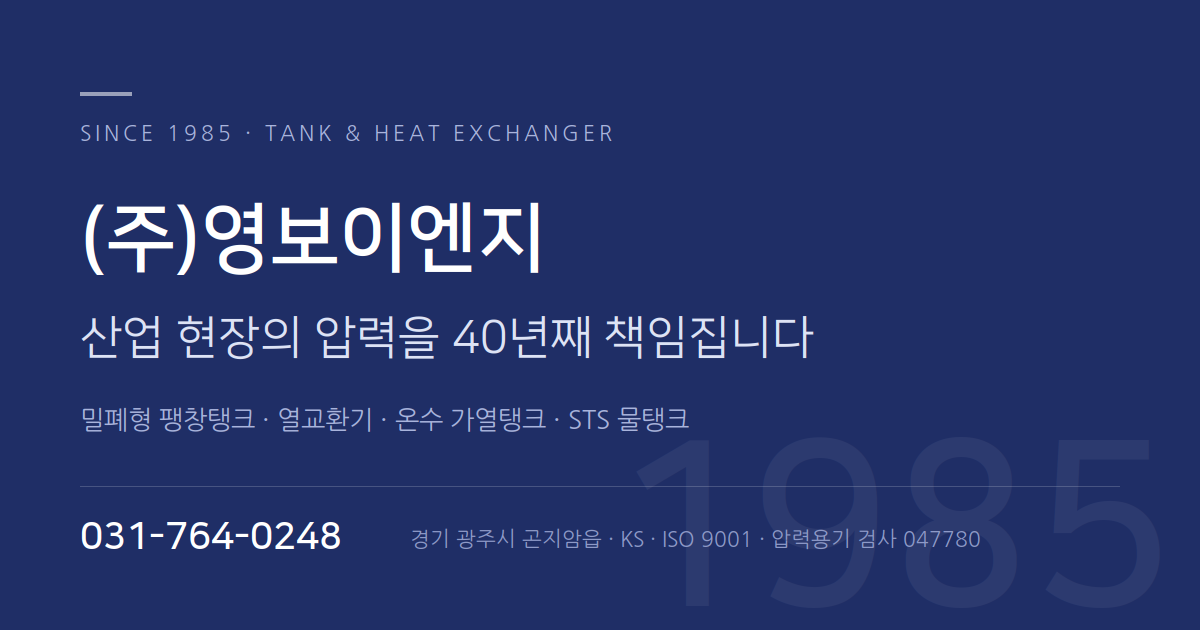
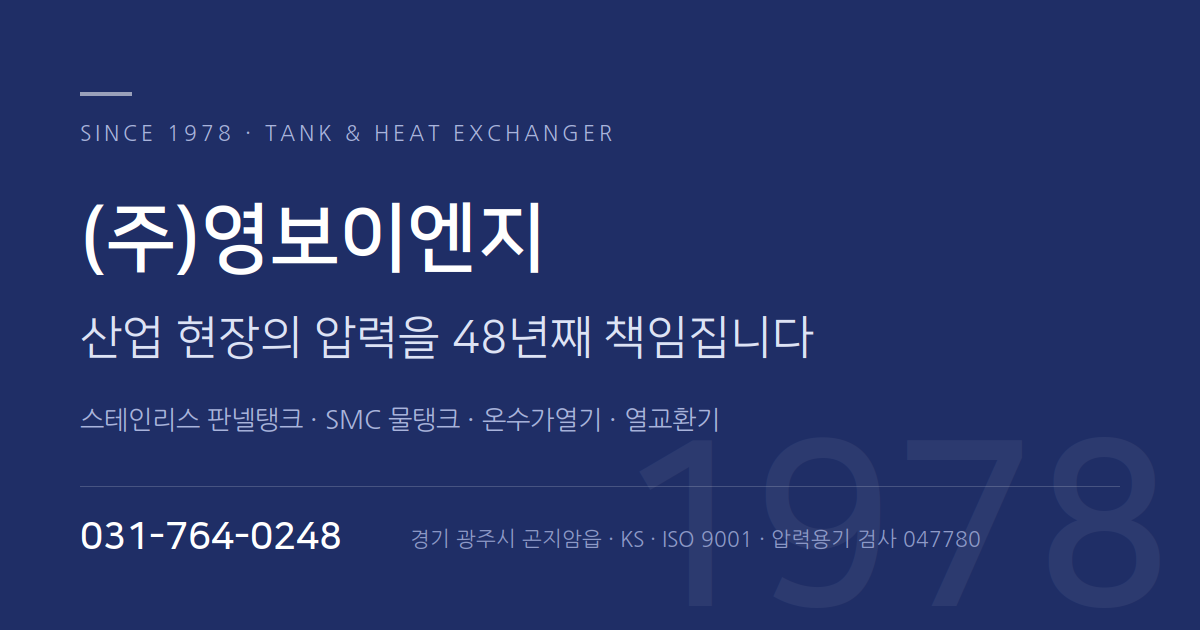
fix(content): 회사 정보를 공식 카탈로그 기준으로 정정 + 업력 자동 계산
공식 카탈로그(YoungBo ENG Catalog)를 1차 자료로 대조한 결과 사이트의
회사 정보 여러 곳이 사실과 달랐다.

정정 내역
- 창업 1985 → 1978년 2월 (영보탱크, 서울 성동구 화양동)
- 법인 전환 2010년대 → 2005년 7월 (주)영보이엔지 법인 설립
- 업력 40년 → 48년
- 최대 용량 1,000L → 20,000ℓ, 판넬탱크 2,000TON 행 추가.
  실제의 1/20로 적고 있어 대형 현장 문의를 스스로 걸러내고 있었다
- 연혁 5행을 카탈로그 연혁표대로 재작성 (1978·1987·1994·2005·현재)
- 서울사무실(02-461-0077) 및 곤지암 추가 회선 표기
- 푸터에 대표이사 박천종 명기
- 공장 규모(대지 900평·건물 400평) 반영
- og-cover.png 재생성 (SINCE 1978 / 48년째)

업력 자동 계산
- data-since="1978" 요소를 현재 연도 기준으로 갱신한다. 해가 바뀔 때마다
  숫자를 손댈 필요가 없다.
- HTML 에는 계산 결과를 그대로 넣어두어 스크립트가 막힌 환경과
  검색엔진에도 올바른 값이 보인다.

미해결(부모님 확인 필요): KS 인증 vs KC 인증 표기, 현재 생산능력 수치,
주력 제품인 스테인리스 판넬탱크·SMC 물탱크가 제품 섹션에 빠져 있는 점.

Changed region(s): [[0.0617, 0.6333, 0.5858, 0.6937], [0.1542, 0.181, 0.185, 0.2413], [0.4008, 0.5127, 0.4317, 0.5429]]

diff --git a/index.html b/index.html
@@ -6,7 +6,7 @@
   <meta name="viewport" content="width=device-width, initial-scale=1.0">
   <title>(주)영보이엔지 — 탱크·열교환기 전문 제조기업</title>
   <meta name="description"
-    content="1985년 창업. 밀폐형 팽창탱크·열교환기·온수 가열탱크·STS 물탱크 전문 제조. KS·ISO 9001·압력용기 검사(CODE 047780) 인증. 경기 광주 곤지암 자체 공장.">
+    content="1978년 창업. 스테인리스 판넬탱크·SMC 물탱크·온수저장탱크·열교환기·밀폐형 팽창탱크 전문 제조. ISO 9001·에너지관리공단 압력용기 검사(CODE 047780) 인증. 경기 광주 곤지암 자체 공장.">
   <meta name="keywords" content="팽창탱크, 밀폐형 팽창탱크, 열교환기, 온수 가열탱크, STS 물탱크, 스테인리스 물탱크, 압력용기, 영보이엔지, 영보종합탱크, 곤지암 탱크 제작">
   <link rel="canonical" href="https://youngboeng.co.kr/">
 
@@ -26,12 +26,12 @@
   <meta property="og:type" content="website">
   <meta property="og:site_name" content="(주)영보이엔지">
   <meta property="og:title" content="(주)영보이엔지 — 탱크·열교환기 전문 제조기업">
-  <meta property="og:description" content="1985년 창업. 밀폐형 팽창탱크·열교환기·온수 가열탱크·STS 물탱크 전문 제조. KS·ISO 9001·압력용기 검사 인증.">
+  <meta property="og:description" content="1978년 창업. 스테인리스 판넬탱크·SMC 물탱크·온수저장탱크·열교환기·밀폐형 팽창탱크 전문 제조. 최대 20,000ℓ 대응.">
   <meta property="og:url" content="https://youngboeng.co.kr/">
   <meta property="og:image" content="https://youngboeng.co.kr/images/og-cover.png">
   <meta property="og:image:width" content="1200">
   <meta property="og:image:height" content="630">
-  <meta property="og:image:alt" content="(주)영보이엔지 — 산업 현장의 압력을 40년째 책임집니다. 밀폐형 팽창탱크·열교환기·온수 가열탱크·STS 물탱크">
+  <meta property="og:image:alt" content="(주)영보이엔지 — 산업 현장의 압력을 48년째 책임집니다. 스테인리스 판넬탱크·온수저장탱크·열교환기·밀폐형 팽창탱크">
   <meta property="og:locale" content="ko_KR">
   <meta name="twitter:card" content="summary_large_image">
 
@@ -46,7 +46,7 @@
     "url": "https://youngboeng.co.kr/",
     "image": "https://youngboeng.co.kr/images/og-cover.png",
     "description": "산업용 탱크·열교환기 전문 제조. 밀폐형 팽창탱크, 열교환기, 온수 가열탱크, STS 물탱크 맞춤 제작.",
-    "foundingDate": "1985",
+    "foundingDate": "1978",
     "telephone": "+82-31-764-0248",
     "faxNumber": "+82-31-764-0249",
     "email": "ybeng@hanmail.net",
@@ -183,7 +183,7 @@
       position: relative; overflow: hidden;
     }
     .hero-l::after {
-      content: "1985"; position: absolute; right: -20px; bottom: -40px;
+      content: "1978"; position: absolute; right: -20px; bottom: -40px;
       font-family: var(--font); font-size: 170px; font-weight: 600;
       color: rgba(255, 255, 255, .055); letter-spacing: -0.05em; pointer-events: none;
       user-select: none;
@@ -569,8 +569,8 @@
   <!-- ══ §2. 히어로 ══ -->
   <section id="hero">
     <div class="hero-l">
-      <span class="hero-eyebrow"><i></i>SINCE 1985 · 압력용기 검사 CODE 047780</span>
-      <h1>산업 현장의 압력을<br>40년째 책임집니다</h1>
+      <span class="hero-eyebrow"><i></i>SINCE 1978 · 에너지관리공단 압력용기 검사 CODE 047780</span>
+      <h1>산업 현장의 압력을<br><span data-since="1978">48</span>년째 책임집니다</h1>
       <p class="lead">
         밀폐형 팽창탱크 · 열교환기 · 온수 가열탱크 · STS 물탱크.
         설계부터 용접 · 내압시험 · 납품까지 경기 광주 곤지암 자체 공장에서 일관 제작합니다.
@@ -583,9 +583,9 @@
 
     <div class="hero-r">
       <div class="stat-tile">
-        <div class="stat-num">40+</div>
+        <div class="stat-num"><span data-since="1978">48</span>+</div>
         <div class="stat-name">년 업력</div>
-        <div class="stat-note">1985년 창업 이래 탱크·열교환기 전문</div>
+        <div class="stat-note">1978년 창업 이래 탱크·열교환기 전문</div>
       </div>
       <div class="stat-tile accent">
         <div class="stat-num">2,000+</div>
@@ -611,7 +611,7 @@
   <div id="metaband">
     <span>YOUNGBO ENGINEERING CO., LTD.</span>
     <span>탱크 · 열교환기 전문 제조</span>
-    <span>EST. 1985 — GONJIAM, GYEONGGI</span>
+    <span>EST. 1978 — GONJIAM, GYEONGGI</span>
   </div>
 
 
@@ -788,9 +788,10 @@
           <p class="sec-lead">자체 공장 기준 연간 생산량과 대응 범위입니다.</p>
           <div class="capacity-box">
             <div class="capacity-row"><span class="k">연간 제작 대수</span><span class="v">500+</span></div>
-            <div class="capacity-row"><span class="k">최대 용량 대응</span><span class="v">1,000 L</span></div>
+            <div class="capacity-row"><span class="k">최대 용량 대응</span><span class="v">20,000 ℓ</span></div>
+            <div class="capacity-row"><span class="k">판넬탱크 대응</span><span class="v">2,000 TON</span></div>
             <div class="capacity-row"><span class="k">긴급 납품 최단</span><span class="v">3일</span></div>
-            <div class="capacity-row"><span class="k">공장 소재</span><span class="v">곤지암</span></div>
+            <div class="capacity-row"><span class="k">자가 공장</span><span class="v">대지 900평</span></div>
           </div>
         </div>
 
@@ -806,11 +807,12 @@
 
         <div class="reveal">
           <div class="sec-eyebrow">ABOUT</div>
-          <h2 class="sec-title">40년의 신뢰</h2>
+          <h2 class="sec-title"><span data-since="1978">48</span>년의 신뢰</h2>
           <p class="about-intro" style="margin-top:18px;">
-            (주)영보이엔지(영보종합탱크)는 1985년 창업 이래 산업용 탱크·열교환기 전문 제조기업으로 성장해 왔습니다.
-            자체 공장에서 설계·용접·시험·납품까지 일관 공정으로 운영하며, KS·ISO 9001·압력용기 검사 인증을 바탕으로
-            공공기관·대형 건설사·산업 플랜트에 2,000건 이상 납품 실적을 보유하고 있습니다.
+            (주)영보이엔지는 1978년 창업 이래 산업용 탱크·열교환기 전문 제조기업으로 성장해 왔습니다.
+            경기 광주 곤지암 자가 공장(대지 900평·건물 400평)에서 설계·용접·시험·납품까지 일관 공정으로 운영하며,
+            ISO 9001과 에너지관리공단 압력용기 검사 인증(CODE 047780)을 바탕으로 공공기관·대형 건설사·산업 플랜트에
+            납품하고 있습니다.
           </p>
         </div>
 
@@ -819,24 +821,24 @@
           <h2 class="sec-title" style="margin-bottom:22px;">연혁</h2>
           <div class="history">
             <div class="history-item">
-              <div class="history-year">1985</div>
-              <div class="history-event">영보종합탱크 창업. 경기 광주 소재 공장 설립.</div>
+              <div class="history-year">1978</div>
+              <div class="history-event">영보탱크 창업 (서울 성동구 화양동).</div>
             </div>
             <div class="history-item">
-              <div class="history-year">1990s</div>
-              <div class="history-event">KS 인증 취득. 대형 건설사·공공기관 납품 시작.</div>
+              <div class="history-year">1987</div>
+              <div class="history-event">영보공업사 — 금속탱크·가공저장용기, 서울 성수동 공장 등록.</div>
             </div>
             <div class="history-item">
-              <div class="history-year">2000s</div>
-              <div class="history-event">ISO 9001 인증 취득. 열교환기 라인 확대.</div>
+              <div class="history-year">1994</div>
+              <div class="history-event">경기 광주 곤지암 자가 공장 설립 (대지 900평 · 건물 400평).</div>
             </div>
             <div class="history-item">
-              <div class="history-year">2010s</div>
-              <div class="history-event">(주)영보이엔지 법인 전환. 압력용기 검사 인증 취득 (CODE 047780).</div>
+              <div class="history-year">2005</div>
+              <div class="history-event">(주)영보이엔지 법인 설립. 곤지암 공장 확장.</div>
             </div>
             <div class="history-item">
               <div class="history-year">현재</div>
-              <div class="history-event">누적 납품 2,000건 이상. STS 물탱크·맞춤 제작 서비스 운영 중.</div>
+              <div class="history-event">스테인리스 판넬탱크·SMC 물탱크·온수가열기·열교환기·밀폐형 팽창탱크 제작 및 현장 시공.</div>
             </div>
           </div>
         </div>
@@ -873,8 +875,18 @@
               <div><div class="info-val"><a href="mailto:ybeng@hanmail.net">ybeng@hanmail.net</a></div></div>
             </div>
             <div class="info-row">
-              <span class="info-key">주소</span>
-              <div><div class="info-val" style="font-size:13.5px; font-weight:500;">경기 광주시 곤지암읍 광여로99번길 7</div></div>
+              <span class="info-key">공장</span>
+              <div>
+                <div class="info-val" style="font-size:15px; font-weight:500;">경기 광주시 곤지암읍 광여로99번길 7</div>
+                <div class="info-sub">TEL 031-764-0248 · 031-763-8637 · 031-764-0255 / FAX 031-764-0249</div>
+              </div>
+            </div>
+            <div class="info-row">
+              <span class="info-key">서울</span>
+              <div>
+                <div class="info-val" style="font-size:15px; font-weight:500;">서울사무실</div>
+                <div class="info-sub">TEL 02-461-0077 · 02-464-8637 / FAX 02-461-0078</div>
+              </div>
             </div>
           </div>
 
@@ -958,9 +970,9 @@
           <img src="images/logo-mark-white.svg" alt="" class="footer-logo-mark">
           <div class="footer-logo-text">(주)영보이엔지 · 영보종합탱크</div>
           <div class="footer-biz">
-            사업자등록번호 126-81-88893<br>
-            경기 광주시 곤지암읍 광여로99번길 7<br>
-            TEL 031-764-0248 &nbsp;|&nbsp; FAX 031-764-0249 &nbsp;|&nbsp; ybeng@hanmail.net
+            사업자등록번호 126-81-88893 &nbsp;|&nbsp; 대표이사 박천종<br>
+            곤지암공장 · 경기 광주시 곤지암읍 광여로99번길 7 &nbsp;|&nbsp; TEL 031-764-0248 &nbsp;|&nbsp; FAX 031-764-0249<br>
+            서울사무실 &nbsp;|&nbsp; TEL 02-461-0077 &nbsp;|&nbsp; FAX 02-461-0078 &nbsp;|&nbsp; ybeng@hanmail.net
           </div>
         </div>
         <div class="footer-certs">
@@ -1005,6 +1017,15 @@
 
 
   <script>
+    /* ── 업력 자동 갱신 ──
+       해가 바뀌어도 손대지 않도록 창업연도에서 계산한다.
+       HTML 에는 계산된 값을 그대로 넣어두어 스크립트가 막힌 환경과
+       검색엔진에도 올바른 숫자가 보이게 한다. */
+    document.querySelectorAll('[data-since]').forEach(el => {
+      const since = parseInt(el.dataset.since, 10);
+      if (!Number.isNaN(since)) el.textContent = String(new Date().getFullYear() - since);
+    });
+
     /* ── 모바일 메뉴 ── */
     function toggleNav() {
       const links = document.getElementById('navLinks');
